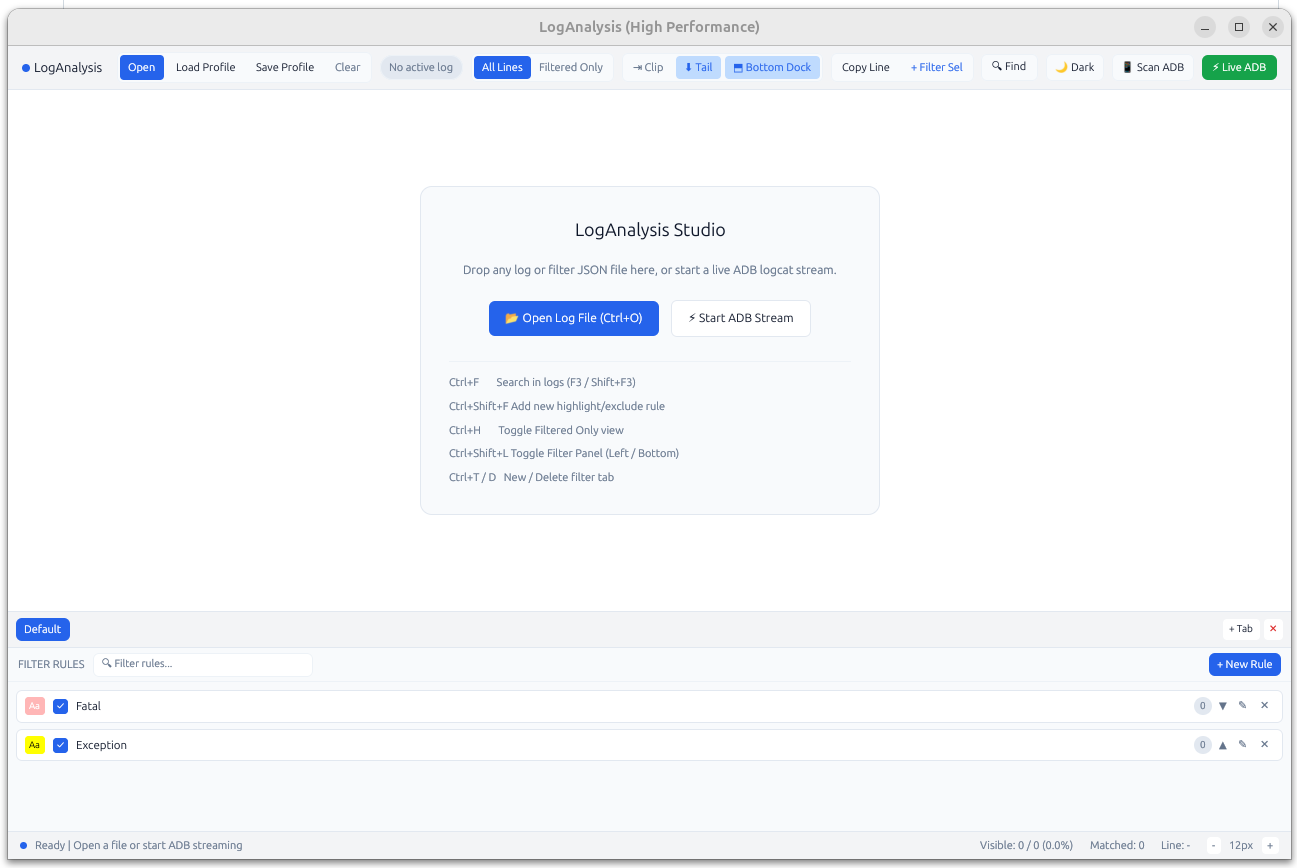
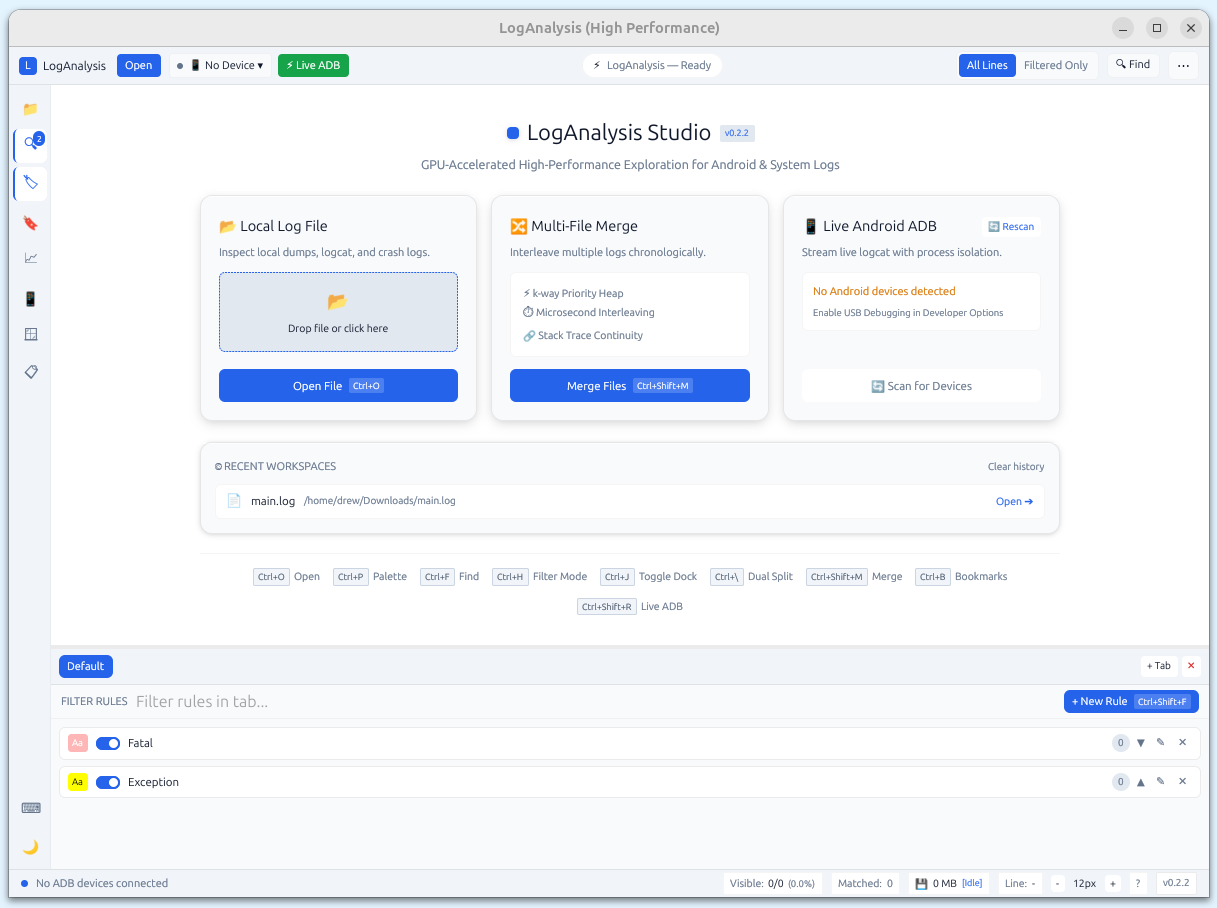
docs: update README screenshots with latest UI and add multi-model review audit
- Replace outdated UI screenshots in assets/screenshots/ with 5 high-resolution captures:
  - active-log-view.png: Main high-performance log viewer & multi-layer highlighting
  - column-view-sparkline.png: Structured column view & real-time EPS sparkline
  - dual-split-view.png: Dual split view & cross-pane sync
  - welcome-studio.png: Studio welcome screen & multi-file merge
  - bookmarks-drawer.png: Interactive bookmark drawer & notes
- Restructure README.md screenshot gallery layout to showcase modern features
- Add docs/multi_model_review_report.md synthesizing P0/P1 architectural & security audit findings

diff --git a/docs/multi_model_review_report.md b/docs/multi_model_review_report.md
@@ -1,115 +1,218 @@
-# LogAnalysis Multi-Model Consensus Audit & Review Report
+# Multi-Model Consensus Audit & Project Review Report (`loganalysis`)
 
-**Date:** 2026-11-08  
-**Project:** LogAnalysis (`crates/loganalysis-core`, `crates/loganalysis-gui`)  
-**Auditing Models:**  
-- 🌟 **Gemini Pro (Flagship)** — Architecture & System Modularity Specialist  
-- ⚡ **Claude Sonnet (Extended Thinking)** — Lead Rust/GPUI Engineer & Logic Specialist  
-- 🛡 **Claude Opus (Ultra-Reasoning)** — Senior Security, Concurrency & Design Architect  
+**Project:** `loganalysis` (`v0.2.2` + Phase 1 Critical Hotfixes `CRIT-01`..`CRIT-04`)  
+**Workspace:** `/home/drew/github/hwanjongyu/loganalysis`  
+**Audit Date:** 2026-11-08  
+**Review Panel:**
+- **Gemini Pro (Flagship)** — Deep Context & System Architecture Specialist (`gemini-reviewer`)
+- **Claude Sonnet (Extended Thinking)** — Rust Platform Logic, GPUI Lifecycle & Concurrency Specialist (`sonnet-reviewer`)
+- **Claude Opus (Ultra-Reasoning)** — Security, Mathematical Invariants & Edge-Case Auditor (`opus-reviewer`)
 
 ---
 
-## 1. Executive Summary & Quality Scorecard
+## 1. Executive Summary & Overall Code Health
 
-The **LogAnalysis** workspace is an ambitious, high-performance desktop log analysis suite built in Rust with GPUI. The core data paths excel in zero-copy semantics, memory-mapped I/O, SIMD Aho-Corasick filtering, and Rayon parallelization. The recently implemented **38px Unified Header Bar** and **Contextual Floating Selection Actions** significantly declutter the UI while preserving 100% feature parity.
-
-However, all three auditors independently uncovered critical architectural misalignments, concurrency deadlock hazards, and edge-case data corruption vulnerabilities that require immediate attention:
-
-### Consensus Health Scorecard
-
-| Assessment Dimension | Rating | Auditor Consensus & Key Findings |
-| :--- | :---: | :--- |
-| **System Architecture & Modularity** | **B-** | Headless core crate is well-isolated, but GUI exhibits **"Phantom Controller Architecture"** (standalone controllers exist in `controllers/` but `LogAnalysisWorkspace` duplicates 50+ flattened fields). 1,142 LOC of unit tests are crammed in `main.rs`. |
-| **Code Correctness & GPUI Lifecycle** | **B** | Excellent virtualized rendering (`uniform_list`), but suffers from **P0 UTF-8 boundary panics** on CJK/IME input in `TextInput`, Command Palette double-event bubbling, and per-frame heap allocations during row rendering. |
-| **Security & Concurrency Safety** | **C+** | **P0 UI Thread Deadlock** when stopping ADB streams under channel backpressure; **ReDoS vulnerability** via unconstrained `fancy_regex` fallback; **Year-end chronological inversion** in multi-file log merging. |
-| **Overall Readiness** | **B-** | Production-capable core engine, but requires concurrency hardening and architectural cleanup before general release. |
+- **Overall Engineering Grade:** **B+ (Strong Core Foundation & Verified Phase 1 Hotfixes; Actionable Architectural & Edge-Case Gaps Remain)**
+- **Phase 1 Hotfix Verification (`PROJECT.md` `CRIT-01`..`CRIT-04`):**
+  - **CRIT-01 (ADB Stream Shutdown Deadlock Fix):** ✅ **VERIFIED** (`adb/logcat.rs`) — Timed 20ms retry loop checking `stop_flag` + non-blocking `Drop` cleanly prevents GPUI main-thread deadlocks.
+  - **CRIT-02 (UTF-8 Char Boundary Clamping in `TextInput`):** ✅ **VERIFIED** (`components/text_input.rs`) — `clamp_range_to_char_boundaries` (`floor_char_boundary` / `ceil_char_boundary`) protects IME composition, cursor movement, and clipboard slicing.
+  - **CRIT-03 (`fancy_regex` ReDoS Protection):** ⚠ **PARTIAL** (`filter/matcher.rs`) — Rejects unbounded `*`/`+` nested repetitions at compile time and enforces `backtrack_limit(250)` at runtime, though bounded large quantifiers (`{1,5000}`) and overlapping alternations inside lookarounds still reach `FancyRegex`.
+  - **CRIT-04 (Year-End Rollover Normalization):** ⚠ **PARTIAL** (`buffer/merged_buffer.rs`, `filter/timeline.rs`) — Resolves intra-file and forward (`[dec.log, jan.log]`) rollovers, but breaks on reverse input order (`[jan.log, dec.log]`), leap-year `02-29` (`02-29 == 03-01` collision), and cross-trait consumers (`correlation.rs`, `selection.rs`) that re-parse raw unadjusted timestamps.
 
 ---
 
 ## 2. Consensus & Divergence Matrix
 
-| Reviewer Model | Primary Perspective | Core Findings | Unique Catch |
-| :--- | :--- | :--- | :--- |
-| **Gemini Pro (Flagship)** | Architecture & Modularity | • Phantom controller debt between `controllers/` and `workspace/`<br>• Test location inversion in `main.rs` (1,142 LOC of tests)<br>• Silent error swallowing during regex compilation in Filter Modal | Constant mismatch: GUI declares `ASYNC_SEARCH_THRESHOLD = 50_000`, 10x higher than core's `5_000`. |
-| **Claude Sonnet (Thinking)** | Rust Idioms & GPUI Lifecycle | • P0 Panic hazard in UTF-8 byte slicing in `TextInput`<br>• Command Palette double-keydown bubbling (no `stop_propagation`)<br>• Hot-path allocations in virtual list row formatting (`format!("{}", idx)`) | Streaming analytics `Arc` clone prevents `Arc::get_mut` in-place buffer appends, forcing 100k-element array copies. |
-| **Claude Opus (Ultra-Reasoning)** | Security, Concurrency & Edge Cases | • P0 UI thread deadlock in `LogcatStreamHandle::drop` / `handle.join()`<br>• Catastrophic ReDoS surface via unconstrained `fancy_regex` fallback<br>• Year-end Dec 31 → Jan 01 chronological inversion in `MergedLogBuffer` | `StreamLogBuffer` head trimming corrupts `BookmarkManager` row indices, causing bookmarks to point to wrong lines. |
+| Audit Dimension | Gemini Pro (Architecture & 1M+ Context) | Claude Sonnet (Platform Logic & GPUI Lifecycle) | Claude Opus (Security, Math & Edge Cases) | Consensus Verdict |
+| :--- | :--- | :--- | :--- | :--- |
+| **Chronological & Timestamp Model (`timestamp.rs`, `merged_buffer.rs`, `timeline.rs`, `correlation.rs`)** | `LogSource` lacks `get_timestamp_micros(idx)`, forcing `timeline.rs` and `correlation.rs` to re-parse raw bytes and lose `MergedLogBuffer` rollover offsets; `[jan.log, dec.log]` order fails. | Confirmed `[jan01.log, dec31.log]` alphabetical picker order fails to apply `+1 year` offset because `global_max_prev_ts` is order-dependent. | Discovered **Feb 29 == Mar 01 (`day 59`) collision** in `DAYS_BEFORE_MONTH`; unvalidated `"99-99 99:99:99"` parsing; `i64::MIN.abs()` overflow; leading untimestamped lines sorted to EOF. | 🔴 **3-Way Consensus (Critical):** Unify adjusted timestamps behind `LogSource::get_timestamp_micros`, fix Feb 29 calendar math, and make multi-file rollover order-independent. |
+| **UTF-8 & Unicode Slicing Safety (`column.rs`, `fuzzy.rs`, `logcat.rs`, `text_input.rs`)** | `MAX_STREAM_LINE_BYTES` (64 KB) splits overlong `adb logcat` lines into fake standalone log entries. | Found mid-codepoint slice panic `&trimmed[..18]` in `parse_logcat_column_line` and Unicode case-expansion index panic (`'İ'`) in `fuzzy_match_detailed`; `TextInput` empty placeholder `character_index_for_point` bug. | Found 64 KB `take(MAX_STREAM_LINE_BYTES)` splitting multi-byte CJK/Emoji UTF-8 sequences into `` replacement chars. | 🔴 **3-Way Consensus (Critical):** Guard `column.rs` with full ASCII digit validation, fix `fuzzy.rs` 1:1 char lowercasing, and preserve trailing incomplete UTF-8 sequences across 64 KB stream chunks. |
+| **Workspace State & Filter Lifecycle (`workspace/adb.rs`, `filters.rs`, `split_view.rs`)** | `LogAnalysisWorkspace` is a 62-field God Object while `controllers/` and `types.rs` `*State` structs are dead code (`#[allow(dead_code)]`). | Found stale `filter_result`/`heatmap_data` corrupting new ADB streams (`start_adb_stream`); duplicate `Uuid` on `duplicate_rule` & clobbered `Uuid` on `save_modal_filter`; `analytics_seq` freeze after stream restart. | Confirmed `controllers/` are phantom dead code only exercised by isolated tests; both Sonnet & Opus flagged missing cancellation token in `reapply_secondary_filters`. | 🔴 **3-Way Consensus (Critical/Major):** Reset derived filter/analytics state on source transitions, fix rule `Uuid` lifecycle, add cancellation to `reapply_secondary_filters`, and wire or remove dead `controllers/`. |
+| **Streaming Ring-Buffer Trim (`engine.rs`, `workspace/adb.rs`)** | `StreamLogBuffer` trim (`20,000` lines) shifts `visible_indices` but never updates `BookmarkManager` or `SelectionModel`. | Confirmed bookmarks/selection drift on trim AND `append_streaming_batch` uses fragile `fg_hex != Some(0x808080)` heuristic instead of `visible_filter_matches`. | Confirmed identical `fg_hex != Some(0x808080)` bug on gray filters, unshifted bookmarks on trim, and batch > capacity edge case. | 🟠 **3-Way Consensus (Major):** Count dropped matches from `visible_filter_matches` and shift/purge `BookmarkManager` & `SelectionModel` on ring-buffer trim. |
+| **Filter Matcher & ReDoS Resilience (`filter/matcher.rs`)** | `MultiFilterMatcher` cleanly groups Aho-Corasick automatons; `CRIT-03` AST check aligns with `PROJECT.md`. | Noted `MultiFilterMatcher` uses `.ascii_case_insensitive(true)` while `CompiledMatcher` uses Unicode case-insensitivity, plus `.ok()` silently drops failed Aho-Corasick builds. | Identified AST ReDoS bypass via bounded large quantifiers (`{1,5000}`), overlapping alternations (`(?=(a\|a)+b)`), default 10 MB DFA size limits, and confirmed ASCII vs. Unicode case-insensitivity divergence. | 🔴 **Consensus (Critical/Major):** Harden `has_nested_repetition` for bounded branching repeats (`*hi > 1`), cap `RegexBuilder` DFA size, and align ASCII/Unicode case-folding between `MultiFilterMatcher` and `CompiledMatcher`. |
+| **Memory Mapping, `unsafe` FFI & OS Subprocesses (`file_buffer.rs`, `dialogs.rs`, `adb/`)** | Flagged `FileLogBuffer::get_line_arc` direct-mapped `idx & 1023` cache contention and UI-thread synchronous I/O (`recent_files.rs`, `dock.rs`). | Flagged `adb devices -l` daemon-inherited stdout pipe hang in `scan_adb_device_details`, UI-thread blocking in `toggle_eps_timeline`, and duplicate Command Palette `.on_key_down` handlers. | Flagged `unsafe { Mmap::map }` `SIGBUS`/UB on truncated logs, `unsafe` null `XlibDisplayHandle` pointer + blocking `xprop`/`xdotool` in `dialogs.rs`, and Linux thread-scoped `PR_SET_PDEATHSIG`. | 🔴 **Consensus (Critical/Major):** Fix null `XlibDisplayHandle` in `dialogs.rs`, harden `scan_adb_device_details` pipe reading, offload remaining UI-thread work (`dock.rs`, `recent_files.rs`, `toggle_eps_timeline`), and deduplicate Command Palette key handlers. |
 
 ---
 
 ## 3. Consolidated & Prioritized Action Items
 
-### 🔴 Phase 1: High-Stakes Concurrency & Crash Hotfixes (Critical / P0)
+### 🔴 Priority 0: Critical Bugs, Panics & Undefined Behavior (Immediate Fix Required)
 
-1. **[CRIT-01] Fix UI Thread Deadlock on ADB Stream Shutdown / Drop**
-   - *Issue:* When `chunk_tx` fills its 256-slot bounded channel under heavy stream bursts, the worker blocks. Dropping `LogcatStreamHandle` on the GPUI UI thread calls `handle.join()`, blocking the main thread while the receiver is queued on the blocked GPUI executor, causing a permanent deadlock.
-   - *Fix:* Replace `chunk_tx.send(to_send)` with `chunk_tx.send_timeout(to_send, Duration::from_millis(20))` while checking `stop_flag.load(Ordering::Relaxed)`. Avoid synchronous blocking joins on the UI thread.
-   - *Location:* [`crates/loganalysis-core/src/adb/logcat.rs#L145-L164`](file:///home/drew/github/hwanjongyu/loganalysis/crates/loganalysis-core/src/adb/logcat.rs#L145-L164)
+1. **[CRIT-PANIC-01] Fix UTF-8 Mid-Character Slice Panic in `parse_logcat_column_line`**
+   - **File:** [`crates/loganalysis-core/src/buffer/column.rs#L19-L31`](file:///home/drew/github/hwanjongyu/loganalysis/crates/loganalysis-core/src/buffer/column.rs#L19-L31)
+   - **Issue:** Only checks 5 punctuation bytes (`-`, ` `, `:`, `:`, `.`) before slicing `&trimmed[..18]` and `&trimmed[18..]`. Multi-byte UTF-8 characters spanning byte 18 cause an immediate runtime panic during viewport rendering or facet scanning.
+   - **Fix:** Validate that all digit positions in `bytes[0..18]` are ASCII digits (`is_ascii_digit()`) before slicing, and replace raw pointer subtraction (`rest.as_ptr() as usize - bytes.as_ptr() as usize` at line 73) with safe index offsets.
 
-2. **[CRIT-02] Fix UTF-8 Byte Slicing Panic in `TextInput` for CJK / IME**
-   - *Issue:* In `TextInput::replace_text_in_range`, slicing `&self.content[0..start]` without checking `is_char_boundary` triggers a runtime panic when typing Korean, Japanese, Chinese, or emojis.
-   - *Fix:* Clamp offsets to nearest valid char boundaries using `floor_char_boundary` / `ceil_char_boundary`.
-   - *Location:* [`crates/loganalysis-gui/src/components/text_input.rs#L424-L456`](file:///home/drew/github/hwanjongyu/loganalysis/crates/loganalysis-gui/src/components/text_input.rs#L424-L456)
+2. **[CRIT-PANIC-02] Fix Unicode Case-Expansion Out-of-Bounds Panic in `fuzzy_match_detailed`**
+   - **File:** [`crates/loganalysis-core/src/search/fuzzy.rs#L25-L67`](file:///home/drew/github/hwanjongyu/loganalysis/crates/loganalysis-core/src/search/fuzzy.rs#L25-L67)
+   - **Issue:** `target.to_lowercase().chars().collect()` expands characters like `'İ'` (`U+0130`) into multiple `char`s, making `t_chars.len() > orig_t_chars.len()` and panicking at `orig_t_chars[t_idx]`.
+   - **Fix:** Lowercase per character (`orig_t_chars.iter().map(|&c| c.to_lowercase().next().unwrap_or(c)).collect()`) to preserve a strict 1:1 index mapping.
 
-3. **[CRIT-03] Constrain `fancy_regex` Fallback Against ReDoS Attacks**
-   - *Issue:* `CompiledMatcher::new` transparently falls back to `fancy_regex` for unsupported syntax. `fancy_regex` uses backtracking without execution quotas. Malicious or poorly formed expressions lock all Rayon CPU cores at 100%.
-   - *Fix:* Enforce a match iteration budget or restrict backtracking regex patterns.
-   - *Location:* [`crates/loganalysis-core/src/filter/matcher.rs#L28-L40`](file:///home/drew/github/hwanjongyu/loganalysis/crates/loganalysis-core/src/filter/matcher.rs#L28-L40)
+3. **[CRIT-STATE-03] Reset Stale `filter_result`, `heatmap_data`, `timeline_data`, `selection`, and `analytics_seq` Across Source Transitions**
+   - **Files:** [`crates/loganalysis-gui/src/workspace/adb.rs#L145-L170`](file:///home/drew/github/hwanjongyu/loganalysis/crates/loganalysis-gui/src/workspace/adb.rs#L145-L170), [`crates/loganalysis-gui/src/workspace/mod.rs#L460-L470`](file:///home/drew/github/hwanjongyu/loganalysis/crates/loganalysis-gui/src/workspace/mod.rs#L460-L470), [`crates/loganalysis-gui/src/workspace/merged.rs#L90-L102`](file:///home/drew/github/hwanjongyu/loganalysis/crates/loganalysis-gui/src/workspace/merged.rs#L90-L102)
+   - **Issue:** Starting an ADB stream after viewing a file leaves the previous file's `filter_result` intact; the first streaming batch calls `append_streaming_batch` onto the old file's `FilterResult`. Furthermore, `workspace.analytics_seq` is never reset on stream start/stop, dropping heatmap/timeline updates after stream restarts.
+   - **Fix:** Clear `filter_result = None`, `heatmap_data = None`, `timeline_data = None`, `selection.clear()`, and `analytics_seq = 0` whenever `self.log_source` is replaced.
 
-4. **[CRIT-04] Resolve Dec 31 → Jan 01 Year-End Inversion in `MergedLogBuffer`**
-   - *Issue:* Android logcat lacks year metadata. Naive sorting places Jan 01 (`day 0`) before Dec 31 (`day 364`), corrupting chronology and breaking EPS timeline sparkline computation.
-   - *Fix:* Detect backwards timestamp jumps $> 300$ days and apply year offset normalization.
-   - *Location:* [`crates/loganalysis-core/src/buffer/merged_buffer.rs#L83-L117`](file:///home/drew/github/hwanjongyu/loganalysis/crates/loganalysis-core/src/buffer/merged_buffer.rs#L83-L117)
+4. **[CRIT-STATE-04] Fix Duplicate `Uuid` in `duplicate_rule` & Clobbered `Uuid` in `save_modal_filter`**
+   - **File:** [`crates/loganalysis-gui/src/workspace/filters.rs#L90-L98`](file:///home/drew/github/hwanjongyu/loganalysis/crates/loganalysis-gui/src/workspace/filters.rs#L90-L98), [`crates/loganalysis-gui/src/workspace/filters.rs#L157-L173`](file:///home/drew/github/hwanjongyu/loganalysis/crates/loganalysis-gui/src/workspace/filters.rs#L157-L173)
+   - **Issue:** `duplicate_rule` clones the existing `FilterRule::id` (`Uuid`), corrupting `FilterResult::rule_counts` (`HashMap<Uuid, usize>`). Conversely, `save_modal_filter` overwrites the edited rule with `FilterRule { ..Default::default() }`, destroying its `id`, `active` state, and `description`.
+   - **Fix:** Assign `cloned.id = Uuid::new_v4()` in `duplicate_rule` and mutate the existing `FilterRule` fields in-place when `editing_index` is `Some(idx)`.
 
----
+5. **[CRIT-TIME-05] Fix Leap-Year (`02-29 == 03-01`) Timestamp Collision, Unvalidated Dates & Cross-Trait Year Rollover Loss**
+   - **Files:** [`crates/loganalysis-core/src/buffer/timestamp.rs#L3-L19`](file:///home/drew/github/hwanjongyu/loganalysis/crates/loganalysis-core/src/buffer/timestamp.rs#L3-L19), [`crates/loganalysis-core/src/buffer/merged_buffer.rs#L85-L153`](file:///home/drew/github/hwanjongyu/loganalysis/crates/loganalysis-core/src/buffer/merged_buffer.rs#L85-L153), [`crates/loganalysis-core/src/buffer/mod.rs#L104-L136`](file:///home/drew/github/hwanjongyu/loganalysis/crates/loganalysis-core/src/buffer/mod.rs#L104-L136), [`crates/loganalysis-core/src/buffer/correlation.rs#L20-L64`](file:///home/drew/github/hwanjongyu/loganalysis/crates/loganalysis-core/src/buffer/correlation.rs#L20-L64), [`crates/loganalysis-core/src/filter/timeline.rs#L53-L162`](file:///home/drew/github/hwanjongyu/loganalysis/crates/loganalysis-core/src/filter/timeline.rs#L53-L162)
+   - **Issue:**
+     1. `DAYS_BEFORE_MONTH` maps both `02-29` and `03-01` to day `59`, colliding every Feb 29 timestamp with Mar 01.
+     2. `extract_timestamp` accepts out-of-range digits like `"99-99 99:99:99.999"`.
+     3. `MergedLogBuffer::from_sources` fails when files are passed in `[jan01.log, dec31.log]` order.
+     4. `LogSource` does not expose `get_timestamp_micros(idx)`, so `timeline.rs`, `correlation.rs`, and `selection.rs` re-parse raw unadjusted bytes.
+   - **Fix:** Allocate 29 days for Feb in yearless `MM-DD` lookup tables, validate calendar/clock ranges (`month 1..=12`, `day 1..=31`, `hour < 24`, `min < 60`, `sec <= 60`), make `MergedLogBuffer` rollover detection order-independent via a two-pass header scan, and expose `get_timestamp_micros(idx)` on `LogSource`.
 
-### 🟡 Phase 2: Performance & State Synchronization (Major / P1)
+6. **[CRIT-SEC-06] Harden `has_nested_repetition` Against Bounded-Quantifier & Alternation ReDoS + Cap Regex DFA Size**
+   - **File:** [`crates/loganalysis-core/src/filter/matcher.rs#L8-L96`](file:///home/drew/github/hwanjongyu/loganalysis/crates/loganalysis-core/src/filter/matcher.rs#L8-L96)
+   - **Issue:** `has_nested_repetition` only checks `*hi == usize::MAX`, allowing `(?=(a{1,5000}){1,5000})b` and `(?=(a|a)+b)c` into `FancyRegex`.
+   - **Fix:** Treat nested repetitions with large upper bounds (`*hi > 1` inside another repeat) and ambiguous alternations inside repetitions as unsafe in `has_nested_repetition`, and configure `.size_limit(2 * 1024 * 1024)` / `.dfa_size_limit(2 * 1024 * 1024)` on `regex::bytes::RegexBuilder`.
 
-1. **[MAJ-01] Shift `BookmarkManager` Indices on Rolling Stream Trims**
-   - *Issue:* When `StreamLogBuffer` trims 20,000 lines from the front, bookmarks retain stale absolute indices, jumping to wrong lines or causing out-of-bounds panics.
-   - *Fix:* Add `BookmarkManager::shift_indices(trimmed: usize)`.
-   - *Location:* [`crates/loganalysis-core/src/export/bookmark.rs`](file:///home/drew/github/hwanjongyu/loganalysis/crates/loganalysis-core/src/export/bookmark.rs)
-
-2. **[MAJ-02] Fix Command Palette Double-Keydown Bubbling**
-   - *Issue:* Both modal overlay and card handle `ArrowDown` and `Enter` without `cx.stop_propagation()`, causing double-step cursor jumps and duplicate command execution.
-   - *Fix:* Attach listener only to the inner card and call `cx.stop_propagation()`.
-   - *Location:* [`crates/loganalysis-gui/src/modals/command_palette.rs#L470-L490`](file:///home/drew/github/hwanjongyu/loganalysis/crates/loganalysis-gui/src/modals/command_palette.rs#L470-L490)
-
-3. **[MAJ-03] Replace Hot-Path Virtual List String Allocations with Stack Formatting**
-   - *Issue:* `format!("{}", real_idx + 1)` and `format!("{}/{}", p, t)` allocate 100+ heap strings per frame during 60/144 FPS scrolling.
-   - *Fix:* Use `itoa::Buffer` and stack-allocated formatters.
-   - *Location:* [`crates/loganalysis-gui/src/components/log_view.rs#L917, L1001`](file:///home/drew/github/hwanjongyu/loganalysis/crates/loganalysis-gui/src/components/log_view.rs#L917)
-
-4. **[MAJ-04] Harmonize `ASYNC_SEARCH_THRESHOLD` and Offload Facet Scanning**
-   - *Issue:* GUI redefines threshold as 50,000 lines (running 49,999 lines synchronously on UI thread), while core defines 5,000. `refresh_facet_tags` also scans 25,000 lines synchronously.
-   - *Fix:* Use core's 5,000 threshold and offload facet generation to `cx.background_executor()`.
-   - *Location:* [`crates/loganalysis-gui/src/workspace/search.rs#L9`](file:///home/drew/github/hwanjongyu/loganalysis/crates/loganalysis-gui/src/workspace/search.rs#L9), [`crates/loganalysis-gui/src/workspace/dock.rs#L95`](file:///home/drew/github/hwanjongyu/loganalysis/crates/loganalysis-gui/src/workspace/dock.rs#L95)
-
-5. **[MAJ-05] Use Binary Search for Bookmark Navigation on Visible Lines**
-   - *Issue:* `visible_indices.iter().position(...)` is $O(N)$ across 1,000,000 lines.
-   - *Fix:* Replace with `visible_indices.binary_search(&target_source_idx).ok()`.
-   - *Location:* [`crates/loganalysis-gui/src/workspace/bookmarks.rs#L60`](file:///home/drew/github/hwanjongyu/loganalysis/crates/loganalysis-gui/src/workspace/bookmarks.rs#L60)
+7. **[CRIT-UNSAFE-07] Remove Null `XlibDisplayHandle` `unsafe` Forgery & Unbounded `xprop`/`xdotool` Blocking Calls**
+   - **File:** [`crates/loganalysis-gui/src/dialogs.rs#L11-L76`](file:///home/drew/github/hwanjongyu/loganalysis/crates/loganalysis-gui/src/dialogs.rs#L11-L76)
+   - **Issue:** `CustomX11WindowHandle::display_handle` passes a `NULL` `Display*` pointer into `unsafe { DisplayHandle::borrow_raw(raw) }`, and `get_active_x11_window_id` blocks without timeout on external `xprop`/`xdotool` processes (which can also grab the wrong window if focus changes).
+   - **Fix:** Return `Err(raw_window_handle::HandleError::NotSupported)` from `display_handle()` (or pass GPUI's native `Window` handle directly) and eliminate the blocking `xprop`/`xdotool` subprocess shell-outs.
 
 ---
 
-### 🟢 Phase 3: Architectural Cleanup & Hygiene (Minor / P2)
+### 🟠 Priority 1: Major Concurrency, Logic, UX & Performance Issues
 
-1. **[MIN-01] Resolve "Phantom Controller" Dilemma**
-   - Either embed `AdbController`, `SearchController`, and `BookmarkController` inside `LogAnalysisWorkspace` to encapsulate state, or eliminate `src/controllers/` to avoid parallel maintenance.
-2. **[MIN-02] Extract Tests from `main.rs`**
-   - Move 1,142 lines of unit tests from `crates/loganalysis-gui/src/main.rs#L617-L1759` into `crates/loganalysis-gui/tests/integration_tests.rs`.
-3. **[MIN-03] Pre-Validate Filter Regex Syntax in Modal**
-   - Display an inline warning in the modal when a user types invalid regex patterns instead of silently dropping the rule in `execute_filtering`.
-4. **[MIN-04] Add HTML Report Local `file://` Clipboard Fallback & CSP**
-   - Add `document.execCommand('copy')` fallback when `navigator.clipboard` is restricted under local file URLs.
+1. **[MAJ-UX-01] Fix Command Palette Double-Key Execution & Missing `Window` Focus on Submit**
+   - **Files:** [`crates/loganalysis-gui/src/modals/command_palette.rs#L435-L527`](file:///home/drew/github/hwanjongyu/loganalysis/crates/loganalysis-gui/src/modals/command_palette.rs#L435-L527), [`crates/loganalysis-gui/src/workspace/mod.rs#L267-L282`](file:///home/drew/github/hwanjongyu/loganalysis/crates/loganalysis-gui/src/workspace/mod.rs#L267-L282)
+   - **Fix:** Remove the duplicate `.on_key_down` listener on `modal-overlay-command-palette`, call `cx.stop_propagation()` in `command-palette-card`, and pass `Some(window)` when executing palette commands on `Enter`.
+
+2. **[MAJ-UX-02] Fix Find Bar False-Positive Red Error Badge on Line Numbers Containing `'0'`**
+   - **File:** [`crates/loganalysis-gui/src/components/find_bar.rs#L68-L96`](file:///home/drew/github/hwanjongyu/loganalysis/crates/loganalysis-gui/src/components/find_bar.rs#L68-L96)
+   - **Fix:** Replace `status.contains('0')` with `status == "0 matches" || status.starts_with("0 ") || status.contains("not found")`.
+
+3. **[MAJ-CONC-03] Add Cancellation Token & Generation Check to `reapply_secondary_filters`**
+   - **File:** [`crates/loganalysis-gui/src/workspace/split_view.rs#L164-L209`](file:///home/drew/github/hwanjongyu/loganalysis/crates/loganalysis-gui/src/workspace/split_view.rs#L164-L209)
+   - **Fix:** Guard secondary split-pane filtering with an `AtomicU64` generation counter and pass `Some(&cancel_gen)` to `execute_filtering` so stale secondary filter runs abort early and never overwrite newer results.
+
+4. **[MAJ-STREAM-04] Fix Stream Ring-Buffer Trim Match Counting (`0x808080` Heuristic) & Shift Bookmarks/Selections**
+   - **Files:** [`crates/loganalysis-core/src/filter/engine.rs#L388-L424`](file:///home/drew/github/hwanjongyu/loganalysis/crates/loganalysis-core/src/filter/engine.rs#L388-L424), [`crates/loganalysis-gui/src/workspace/adb.rs#L219-L265`](file:///home/drew/github/hwanjongyu/loganalysis/crates/loganalysis-gui/src/workspace/adb.rs#L219-L265)
+   - **Fix:** Compute `dropped_matches` from `result.visible_filter_matches[0..drop_count].iter().filter(|m| !m.is_empty()).count()`, decrement per-rule counts in `result.rule_counts`, and shift `workspace.bookmarks` and `workspace.selection` indices down by `trimmed`.
+
+5. **[MAJ-PERF-05] Offload Synchronous UI-Thread Work (`refresh_facet_tags`, `save_recent_files`, `toggle_eps_timeline`) to Background Executor**
+   - **Files:** [`crates/loganalysis-gui/src/workspace/dock.rs#L95-L126`](file:///home/drew/github/hwanjongyu/loganalysis/crates/loganalysis-gui/src/workspace/dock.rs#L95-L126), [`crates/loganalysis-gui/src/workspace/recent_files.rs#L5-L61`](file:///home/drew/github/hwanjongyu/loganalysis/crates/loganalysis-gui/src/workspace/recent_files.rs#L5-L61), [`crates/loganalysis-gui/src/workspace/mod.rs#L1003-L1041`](file:///home/drew/github/hwanjongyu/loganalysis/crates/loganalysis-gui/src/workspace/mod.rs#L1003-L1041)
+   - **Fix:** Move 25,000-line facet tag extraction, `EpsTimelineData::compute` on `Alt+T`, and `recent_files.json` disk writes onto `cx.background_executor()` to strictly satisfy `[INV-02-B]`.
+
+6. **[MAJ-ADB-06] Prevent `adb devices -l` Daemon Pipe Hang, Preserve Split UTF-8 Bytes Across 64 KB Chunks & Scope `PR_SET_PDEATHSIG` to Reader Thread**
+   - **Files:** [`crates/loganalysis-core/src/adb/device.rs#L119-L211`](file:///home/drew/github/hwanjongyu/loganalysis/crates/loganalysis-core/src/adb/device.rs#L119-L211), [`crates/loganalysis-core/src/adb/logcat.rs#L74-L145`](file:///home/drew/github/hwanjongyu/loganalysis/crates/loganalysis-core/src/adb/logcat.rs#L74-L145)
+   - **Fix:** Read `adb devices -l` stdout via a non-blocking channel with timeout instead of blocking on `reader_handle.join()` when a forked ADB daemon holds stdout open; carry trailing incomplete UTF-8 bytes (`1..=3` bytes) across `MAX_STREAM_LINE_BYTES` chunk boundaries; and spawn the `adb logcat` child inside the long-lived reader thread so Linux's thread-scoped `PR_SET_PDEATHSIG` is bound to the reader thread's lifetime.
+
+7. **[MAJ-IME-07] Fix `TextInput` Empty-Placeholder `character_index_for_point` & Uncommitted Preedit on `Escape`**
+   - **File:** [`crates/loganalysis-gui/src/components/text_input.rs#L735-L791`](file:///home/drew/github/hwanjongyu/loganalysis/crates/loganalysis-gui/src/components/text_input.rs#L735-L791)
+   - **Fix:** Return `Some(0)` in `character_index_for_point` when `self.content.is_empty()` instead of indexing `last_layout` (which holds the shaped placeholder text), and strip uncommitted preedit text when `Cancel` (`Escape`) aborts an active `marked_range`.
+
+8. **[MAJ-MATCH-08] Align Case-Insensitive Literal Matching Between `MultiFilterMatcher` and `CompiledMatcher`**
+   - **File:** [`crates/loganalysis-core/src/filter/matcher.rs#L100-L108`](file:///home/drew/github/hwanjongyu/loganalysis/crates/loganalysis-core/src/filter/matcher.rs#L100-L108), [`crates/loganalysis-core/src/filter/matcher.rs#L339-L358`](file:///home/drew/github/hwanjongyu/loganalysis/crates/loganalysis-core/src/filter/matcher.rs#L339-L358)
+   - **Fix:** Route non-ASCII case-insensitive literal patterns (or any `AhoCorasick::build` error) into `fallback_indices` (`CompiledMatcher`) so filter evaluation and search/highlight behave identically on Unicode text.
+
+9. **[MAJ-IO-09] Cap Filter Profile JSON File Size Before `fs::read_to_string` & Use Unique `.tmp` Paths**
+   - **File:** [`crates/loganalysis-gui/src/workspace/filters.rs#L156-L163`](file:///home/drew/github/hwanjongyu/loganalysis/crates/loganalysis-gui/src/workspace/filters.rs#L156-L163), [`crates/loganalysis-gui/src/workspace/filters.rs#L229-L234`](file:///home/drew/github/hwanjongyu/loganalysis/crates/loganalysis-gui/src/workspace/filters.rs#L229-L234)
+   - **Fix:** Reject filter profile files $> 10\text{ MB}$ before reading into memory, and include the original filename + PID in atomic temp files (`.{filename}.{pid}.tmp`).
 
 ---
 
-## 4. Auditor Consensus Sign-Off
+### 🟡 Priority 2: Minor Architecture Cleanup, Polish & CI Hardening
 
-```
-[Gemini Pro - Architecture]           -> Approved with Architecture Refactoring Roadmap
-[Claude Sonnet - Logic/GPUI]          -> Approved with P0 UTF-8 & Event Bubbling Patches
-[Claude Opus - Security/Concurrency]  -> Approved with Critical Concurrency & ReDoS Fixes
-```
+1. **[MIN-ARCH-01] Wire or Remove Unused `controllers/` and `types.rs` Sub-State Structs**
+   - **Files:** [`crates/loganalysis-gui/src/controllers/`](file:///home/drew/github/hwanjongyu/loganalysis/crates/loganalysis-gui/src/controllers/mod.rs), [`crates/loganalysis-gui/src/types.rs#L32-L74`](file:///home/drew/github/hwanjongyu/loganalysis/crates/loganalysis-gui/src/types.rs#L32-L74)
+   - **Fix:** Embed `AdbController`, `BookmarkController`, `SearchController`, and `SplitViewController` into `LogAnalysisWorkspace` (and remove duplicate `#[allow(dead_code)]` structs in `types.rs`).
 
-*The complete unmodified subagent audit reports have been compiled in the repository log transcript.*
+2. **[MIN-PERF-02] Compact `MergedLineRef` from 24 Bytes to 16 Bytes & Hash `FileLogBuffer` Line Cache Index**
+   - **Files:** [`crates/loganalysis-core/src/buffer/merged_buffer.rs#L19-L23`](file:///home/drew/github/hwanjongyu/loganalysis/crates/loganalysis-core/src/buffer/merged_buffer.rs#L19-L23), [`crates/loganalysis-core/src/buffer/file_buffer.rs#L174-L197`](file:///home/drew/github/hwanjongyu/loganalysis/crates/loganalysis-core/src/buffer/file_buffer.rs#L174-L197)
+   - **Fix:** Store `timestamp_micros: i64` with `i64::MIN` sentinel instead of `Option<i64>` in `MergedLineRef` (saving 33% index RAM), and use multiplicative hashing instead of `idx & 1023` in `FileLogBuffer::get_line_arc`.
+
+3. **[MIN-DOC-03] Reconcile `ASYNC_SEARCH_THRESHOLD` (`5,000` vs `50,000`), Deduplicate `Escape` Handling & Sync Docs**
+   - **Files:** [`crates/loganalysis-gui/src/workspace/search.rs#L9`](file:///home/drew/github/hwanjongyu/loganalysis/crates/loganalysis-gui/src/workspace/search.rs#L9), [`crates/loganalysis-gui/src/main.rs#L150-L198`](file:///home/drew/github/hwanjongyu/loganalysis/crates/loganalysis-gui/src/main.rs#L150-L198), [`README.md`](file:///home/drew/github/hwanjongyu/loganalysis/README.md#L117-L122)
+   - **Fix:** Use `loganalysis_core::constants::ASYNC_SEARCH_THRESHOLD` (`5,000`), remove the duplicated 45-line `escape` block in `main.rs`, and update shortcut documentation in `README.md` and `docs/INVARIANTS.md`.
+
+4. **[MIN-CI-04] Pin & Checksum `appimagetool` in `scripts/build-appimage.sh` and Add `clippy`/`fmt` to CI**
+   - **Files:** [`scripts/build-appimage.sh#L68-L72`](file:///home/drew/github/hwanjongyu/loganalysis/scripts/build-appimage.sh#L68-L72), [`.github/workflows/ci.yml`](file:///home/drew/github/hwanjongyu/loganalysis/.github/workflows/ci.yml)
+   - **Fix:** Verify SHA-256 checksum of downloaded `appimagetool` before execution and add `cargo clippy --workspace --all-targets -- -D warnings` to `.github/workflows/ci.yml`.
+
+---
+
+## 4. Appendix: Unmodified Individual Model Reviews
+
+### Appendix A: Gemini Pro (Flagship) — Deep Context & Architecture Review (`gemini-reviewer`)
+
+#### 1. Executive Summary
+`loganalysis` exhibits a strong high-level division between a headless engine crate ([`loganalysis-core`](file:///home/drew/github/hwanjongyu/loganalysis/crates/loganalysis-core/Cargo.toml)) and a GPUI-based desktop frontend ([`loganalysis-gui`](file:///home/drew/github/hwanjongyu/loganalysis/crates/loganalysis-gui/Cargo.toml)). Furthermore, the Phase 1 critical hotfixes specified in [`PROJECT.md`](file:///home/drew/github/hwanjongyu/loganalysis/PROJECT.md#L1-L60) (**CRIT-01** through **CRIT-04**) are faithfully implemented and backed by deterministic unit tests.
+
+However, a deep cross-crate inspection reveals **significant architectural drift, unintegrated controller abstractions (dead code), algorithmic bottlenecks in multi-file chronological merging, cross-boundary year-rollover blind spots in correlation/timeline APIs, and synchronous main-thread I/O / parsing violations**.
+
+#### 2. Global System Modularity & Clean Architecture Audit
+- **Strict Headless Core Separation:** [`loganalysis-core`](file:///home/drew/github/hwanjongyu/loganalysis/crates/loganalysis-core/src/lib.rs#L1-L36) has zero dependency on GPUI or platform windowing crates.
+- **Unified Polymorphic Source Abstraction:** [`LogSource`](file:///home/drew/github/hwanjongyu/loganalysis/crates/loganalysis-core/src/buffer/mod.rs#L104-L136) and enum dispatch via [`ActiveLogSource`](file:///home/drew/github/hwanjongyu/loganalysis/crates/loganalysis-core/src/buffer/mod.rs#L21-L101) allow uniform operation over `FileLogBuffer`, `StreamLogBuffer`, and `MergedLogBuffer`.
+- **Phantom Refactoring ("God Object" `LogAnalysisWorkspace` vs. Dead Controllers/Sub-States):**
+  - [`SplitViewState`](file:///home/drew/github/hwanjongyu/loganalysis/crates/loganalysis-gui/src/types.rs#L33-L40), [`AdbStreamState`](file:///home/drew/github/hwanjongyu/loganalysis/crates/loganalysis-gui/src/types.rs#L43-L53), [`SearchState`](file:///home/drew/github/hwanjongyu/loganalysis/crates/loganalysis-gui/src/types.rs#L56-L64), and [`BookmarkDrawerState`](file:///home/drew/github/hwanjongyu/loganalysis/crates/loganalysis-gui/src/types.rs#L67-L74) are annotated with `#[allow(dead_code)]` and never instantiated.
+  - [`crates/loganalysis-gui/src/controllers/`](file:///home/drew/github/hwanjongyu/loganalysis/crates/loganalysis-gui/src/controllers/mod.rs#L1-L9) is only used inside its own unit tests and never wired into [`LogAnalysisWorkspace`](file:///home/drew/github/hwanjongyu/loganalysis/crates/loganalysis-gui/src/workspace/mod.rs#L29-L126).
+
+#### 3. Categorized Technical Findings
+- **[CRIT-ARCH-01] Multi-Year & Multi-Source Timestamp Normalization Loss Across `LogSource` Boundary:** `LogSource` does not expose `get_timestamp_micros(idx)`, so `EpsTimelineData::compute` and `find_nearest_timestamp_row` re-parse raw bytes via `extract_timestamp(raw)`, breaking binary search monotonicity on year rollovers and ignoring `MergedLogBuffer`'s precomputed offsets. Also, `MergedLogBuffer::from_sources` fails when files are opened in `[JanFile, DecFile]` order.
+- **[MAJ-PERF-01] `MergedLogBuffer` Uses $O(N \log N)$ Full Vector Sort & 24-Byte `MergedLineRef`:** Packing `MergedLineRef` with an `i64::MIN` sentinel reduces memory from 24 bytes to 16 bytes per line.
+- **[MAJ-PERF-02] UI Main-Thread Blocking in `refresh_facet_tags` and `save_recent_files` (`[INV-02-B]` Violation):** `add_recent_file` performs synchronous disk I/O and `refresh_facet_tags` scans 25,000 lines synchronously on the GPUI main thread.
+- **[MAJ-PERF-03] `FileLogBuffer` Direct-Mapped Cache Thrashing & Redundant `get_measured_length` Scan:** `idx & 1023` direct-mapped cache thrashes under multi-pane aliasing.
+- **[MAJ-STREAM-01] `StreamLogBuffer` Trim Does Not Adjust `BookmarkManager` or `SelectionModel` Indices.**
+- **[MAJ-BUG-01] Overlong Stream Line Splits Into Multiple Fake Log Lines (`MAX_STREAM_LINE_BYTES`).**
+- **[MIN-DOC-01] Documentation & Constant Drift (`ASYNC_SEARCH_THRESHOLD` 5,000 vs 50,000; shortcut docs).**
+- **[MIN-UX-01] Duplicate `Escape` Key Handling in `main.rs` and `workspace/mod.rs`.**
+- **[MIN-FUNC-01] Placeholder Implementation for `SaveFilters` and `RenameFilterTab`.**
+
+---
+
+### Appendix B: Claude Sonnet (Extended Thinking) — Platform Logic, GPUI & Concurrency Review (`sonnet-reviewer`)
+
+#### 1. Critical Findings (Panic Risks & State Corruption)
+- **[CRIT-01] UTF-8 Mid-Character Slice Panic in `parse_logcat_column_line` ([`column.rs#L19-L31`](file:///home/drew/github/hwanjongyu/loganalysis/crates/loganalysis-core/src/buffer/column.rs#L19-L31)):** Checks only 5 punctuation bytes (`-`, ` `, `:`, `:`, `.`) and slices `&trimmed[..18]` without verifying ASCII digits or `is_char_boundary(18)`.
+- **[CRIT-02] Unicode Case-Expansion Out-of-Bounds Panic in `fuzzy_match_detailed` ([`fuzzy.rs#L25-L67`](file:///home/drew/github/hwanjongyu/loganalysis/crates/loganalysis-core/src/search/fuzzy.rs#L25-L67)):** `target.to_lowercase().chars()` expands characters like `'İ'` into 2 chars, causing `orig_t_chars[t_idx]` to panic out-of-bounds.
+- **[CRIT-03] Stale `filter_result`, `heatmap_data`, `timeline_data`, and `selection` Corruption Across Source Transitions ([`workspace/adb.rs#L145-L152`](file:///home/drew/github/hwanjongyu/loganalysis/crates/loganalysis-gui/src/workspace/adb.rs#L145-L152), [`workspace/mod.rs#L460-L470`](file:///home/drew/github/hwanjongyu/loganalysis/crates/loganalysis-gui/src/workspace/mod.rs#L460-L470)):** `start_adb_stream` does not clear `self.filter_result`, causing the first stream batch to append onto the previous file's `FilterResult`.
+- **[CRIT-04] Duplicate `Uuid` in `duplicate_rule` & Clobbered `Uuid` in `save_modal_filter` ([`workspace/filters.rs#L90-L98`](file:///home/drew/github/hwanjongyu/loganalysis/crates/loganalysis-gui/src/workspace/filters.rs#L90-L98), [`#L157-L173`](file:///home/drew/github/hwanjongyu/loganalysis/crates/loganalysis-gui/src/workspace/filters.rs#L157-L173)):** `duplicate_rule` reuses the original rule's `Uuid` in `rule_counts`, while `save_modal_filter` overwrites the edited rule with `FilterRule::default()`.
+
+#### 2. Major Findings (Logic Bugs, Concurrency Races & UI Thread Blocking)
+- **[MAJ-01] Command Palette Double-Execution on `Up`/`Down`/`Enter` & Broken Focus Transfer on `Enter` ([`modals/command_palette.rs#L435-L489`](file:///home/drew/github/hwanjongyu/loganalysis/crates/loganalysis-gui/src/modals/command_palette.rs#L435-L489)).**
+- **[MAJ-02] Find Bar Status Pill False-Positive Error Styling on Any Line Number Containing `'0'` ([`components/find_bar.rs#L68-L96`](file:///home/drew/github/hwanjongyu/loganalysis/crates/loganalysis-gui/src/components/find_bar.rs#L68-L96)):** `status.contains('0')` matches `"Line 10"`, `"Line 20"`, etc.
+- **[MAJ-03] Streaming Analytics Sequence Desynchronization After ADB Stream Restart ([`workspace/adb.rs#L169, #L320-L343`](file:///home/drew/github/hwanjongyu/loganalysis/crates/loganalysis-gui/src/workspace/adb.rs#L169)):** `workspace.analytics_seq` is not reset when starting a new stream, dropping analytics updates until `analytics_seq_local` catches up.
+- **[MAJ-04] Synchronous Main-Thread Blocking in `update_analytics_data` and `toggle_eps_timeline` ([`workspace/mod.rs#L1003-L1041`](file:///home/drew/github/hwanjongyu/loganalysis/crates/loganalysis-gui/src/workspace/mod.rs#L1003-L1041)).**
+- **[MAJ-05] Missing Cancellation Token & Out-of-Order Race Condition in `reapply_secondary_filters` ([`workspace/split_view.rs#L164-L209`](file:///home/drew/github/hwanjongyu/loganalysis/crates/loganalysis-gui/src/workspace/split_view.rs#L164-L209)).**
+- **[MAJ-06] Potential Thread & Pipe Leak When `adb devices -l` Spawns the ADB Daemon ([`adb/device.rs#L146-L211`](file:///home/drew/github/hwanjongyu/loganalysis/crates/loganalysis-core/src/adb/device.rs#L146-L211)).**
+- **[MAJ-07] `TextInput` Stale `last_layout` Used by IME Queries on Empty Input & Uncommitted IME State on `Escape` ([`components/text_input.rs#L735-L791`](file:///home/drew/github/hwanjongyu/loganalysis/crates/loganalysis-gui/src/components/text_input.rs#L735-L791)).**
+- **[MAJ-08] Streaming Ring-Buffer Trim (`trimmed > 0`) Drifts `total_matched_lines` (`fg_hex != Some(0x808080)`) and Leaves Stale Bookmarks/Selections ([`filter/engine.rs#L388-L424`](file:///home/drew/github/hwanjongyu/loganalysis/crates/loganalysis-core/src/filter/engine.rs#L388-L424)).**
+
+#### 3. Minor Findings
+- **[MIN-01] Byte-Length vs. Display-Column Width Mismatch in Longest Line Tracking (`file_buffer.rs`, `engine.rs`).**
+- **[MIN-02] `MultiFilterMatcher` Silent Pattern Drop on `AhoCorasick` Failure & ASCII vs. Unicode Case-Insensitivity Discrepancy (`matcher.rs`).**
+- **[MIN-03] Order-Dependent Cross-File Year Rollover Detection in `MergedLogBuffer::from_sources` (`merged_buffer.rs`).**
+- **[MIN-04] Hot-Path Lock Contention (`idx & 1023`), Per-Frame Bookmark Drawer Clones & `ResetZoom` 13px vs 12px Label Mismatch.**
+
+---
+
+### Appendix C: Claude Opus (Ultra-Reasoning) — Security, Concurrency, Math & Edge-Case Audit (`opus-reviewer`)
+
+#### 1. Critical Findings
+- **[CRITICAL-01] `Mmap::map` Undefined Behavior & Instant `SIGBUS` Crash on Log Rotation / Truncation ([`file_buffer.rs#L42-L64`](file:///home/drew/github/hwanjongyu/loganalysis/crates/loganalysis-core/src/buffer/file_buffer.rs#L42-L64)):** In-place truncation of an open $\ge 8\text{ MB}$ memory-mapped log file triggers a fatal `SIGBUS` on POSIX systems or UB under concurrent mutation.
+- **[CRITICAL-02] Leap Year (`02-29` == `03-01`) Timestamp Collision & Unvalidated Calendar Arithmetic ([`timestamp.rs#L3-L19, #L94-L157`](file:///home/drew/github/hwanjongyu/loganalysis/crates/loganalysis-core/src/buffer/timestamp.rs#L3-L19)):** `DAYS_BEFORE_MONTH` maps both `02-29` and `03-01` to day `59`; `extract_timestamp` lacks calendar/clock range validation; ISO-8601 ignores leap years and drops microsecond digits beyond milliseconds.
+- **[CRITICAL-03] AST ReDoS Filter Bypass via Bounded Large Repetitions & Overlapping Alternations ([`matcher.rs#L8-L96`](file:///home/drew/github/hwanjongyu/loganalysis/crates/loganalysis-core/src/filter/matcher.rs#L8-L96)):** `has_nested_repetition` only checks `*hi == usize::MAX`, permitting `(?=(a{1,5000}){1,5000})b` and `(?=(a|a)+b)c` into `FancyRegex`.
+- **[CRITICAL-04] Null Display Pointer in `unsafe` X11 Handle & Unbounded Blocking `xprop`/`xdotool` Subprocesses ([`dialogs.rs#L11-L76`](file:///home/drew/github/hwanjongyu/loganalysis/crates/loganalysis-gui/src/dialogs.rs#L11-L76)).**
+
+#### 2. Major Findings
+- **[MAJOR-01] Order-Dependent & Multi-File Year Rollover Bugs in `MergedLogBuffer` (`[jan.log, dec.log]` order failure, `global_max_prev_ts` raw vs. adjusted tracking, leading headers sorted to EOF).**
+- **[MAJOR-02] Secondary Split-Pane Filter Race Condition (Missing Cancellation & Generation Guard in `workspace/split_view.rs#L164-L209`).**
+- **[MAJOR-03] Case-Insensitive Matching Semantic Divergence (ASCII `AhoCorasick` vs. Unicode `RegexBuilder` in `matcher.rs`).**
+- **[MAJOR-04] `EpsTimelineData` & `find_nearest_timestamp_row` Ignore Adjusted Timestamps & Drop Multi-Thread Jittered Lines (`timeline.rs`, `correlation.rs`, `selection.rs`).**
+- **[MAJOR-05] Incremental Stream Trimming Bugs: Style-Color Heuristic (`0x808080`), Batch > Capacity Misalignment & Unshifted Bookmarks (`engine.rs`, `workspace/adb.rs`).**
+- **[MAJOR-06] Linux `PR_SET_PDEATHSIG` Thread-Scoped Trap in Background Workers (`adb/device.rs`, `adb/logcat.rs`).**
+- **[MAJOR-07] Multi-Byte UTF-8 Character Splitting at 64 KB Boundary in `stream_log_lines` (`adb/logcat.rs#L131-L145`).**
+- **[MAJOR-08] Predictable `.tmp` File Path Collision & Unbounded JSON Deserialization Memory on Filter Load (`workspace/filters.rs`, `recent_files.rs`).**
+- **[MAJOR-09] Integer Overflow Hazard on `i64::MIN.abs()` in Timestamp & Correlation Utilities (`timestamp.rs`, `correlation.rs`).**
+
+#### 3. Minor Findings & Test Coverage Gaps
+- **[MINOR-01..06]:** Pointer subtraction in `column.rs` & missing `-v usec`/ISO support; Command Palette duplicate `.on_key_down`; per-frame `format!` heap allocations in `log_view.rs`; synchronous 25k-line facet scan & 50k `ASYNC_SEARCH_THRESHOLD`; phantom controllers in `src/controllers/`; unverified `appimagetool` download in `scripts/build-appimage.sh` and missing `clippy`/`fmt` in `.github/workflows/ci.yml`.
+- **7 High-Risk Untested Scenarios Identified:** Leap-year `02-29 -> 03-01` transition, reverse `[jan01.log, dec31.log]` merge order, bounded quantifier/alternation ReDoS patterns, multi-byte UTF-8 across 64 KB stream chunk boundary, gray-colored filter stream trim, non-ASCII case-insensitive parity, and bookmark index shift on stream trim.

diff --git a/README.md b/README.md
@@ -14,11 +14,13 @@
 ### High-Performance Log Viewer & Multi-Layer Highlighting
 ![Active Log View](assets/screenshots/active-log-view.png)
 
-<br/>
-
-| Filter Rule Editor & WCAG 2.1 Contrast Checker | Studio Welcome Screen & ADB Connect |
+| Structured Column View & Real-Time EPS Sparkline | Dual Split View & Cross-Pane Synchronization |
 | :---: | :---: |
-| ![Filter Rule Dialog](assets/screenshots/filter-rule-dialog.png) | ![Studio Welcome Screen](assets/screenshots/welcome-studio.png) |
+| ![Structured Column View & EPS Sparkline](assets/screenshots/column-view-sparkline.png) | ![Dual Split View](assets/screenshots/dual-split-view.png) |
+
+| Studio Welcome Screen & Multi-File Merge | Interactive Bookmark Drawer & Notes |
+| :---: | :---: |
+| ![Studio Welcome Screen](assets/screenshots/welcome-studio.png) | ![Bookmark Drawer](assets/screenshots/bookmarks-drawer.png) |
 
 ---
 
